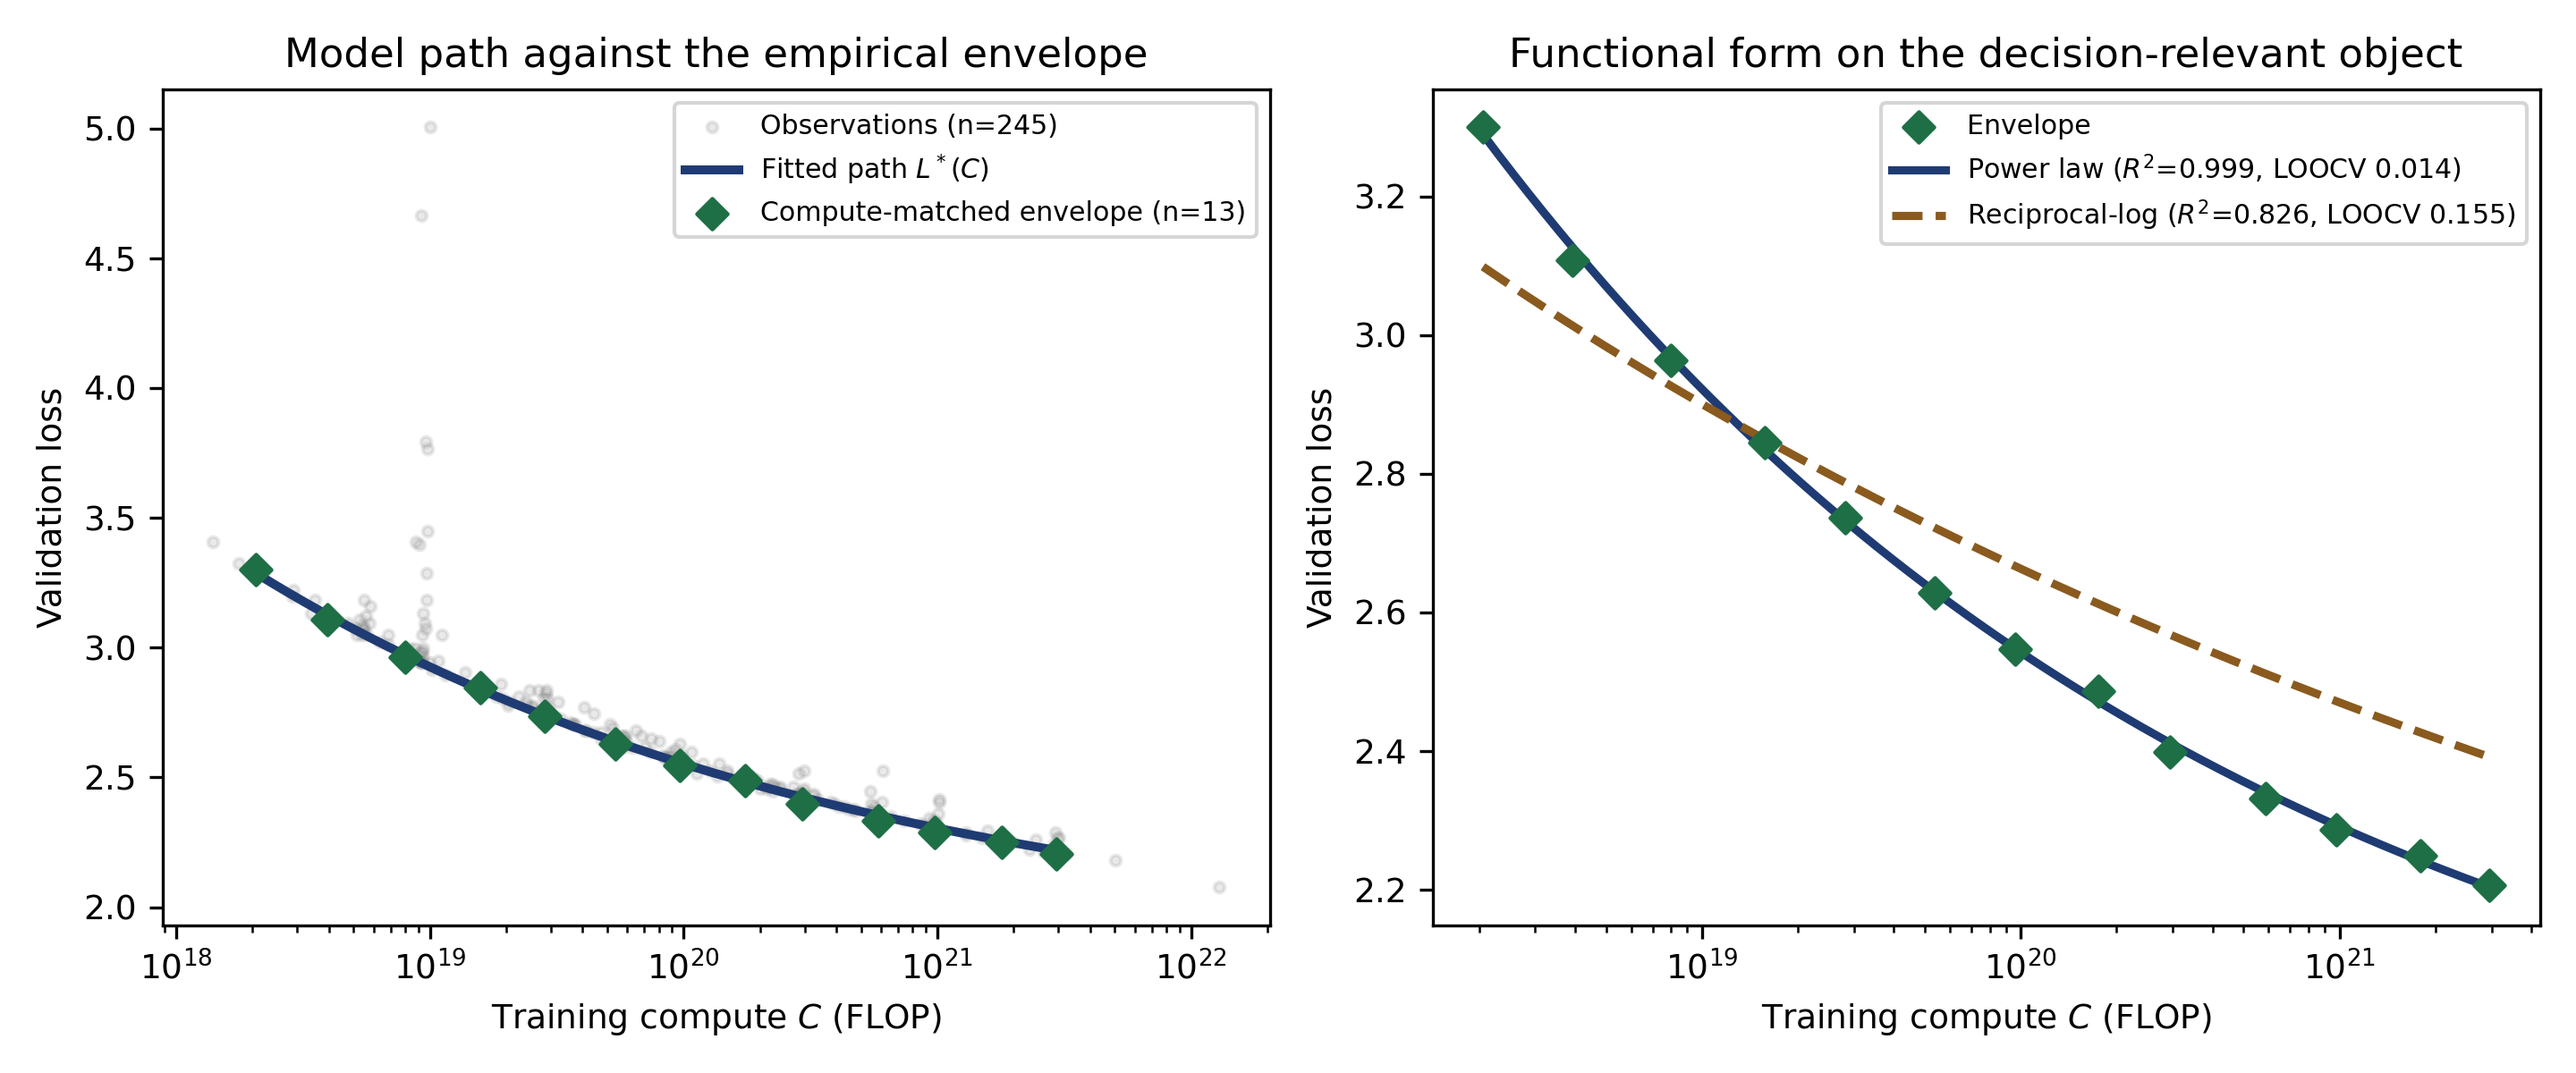
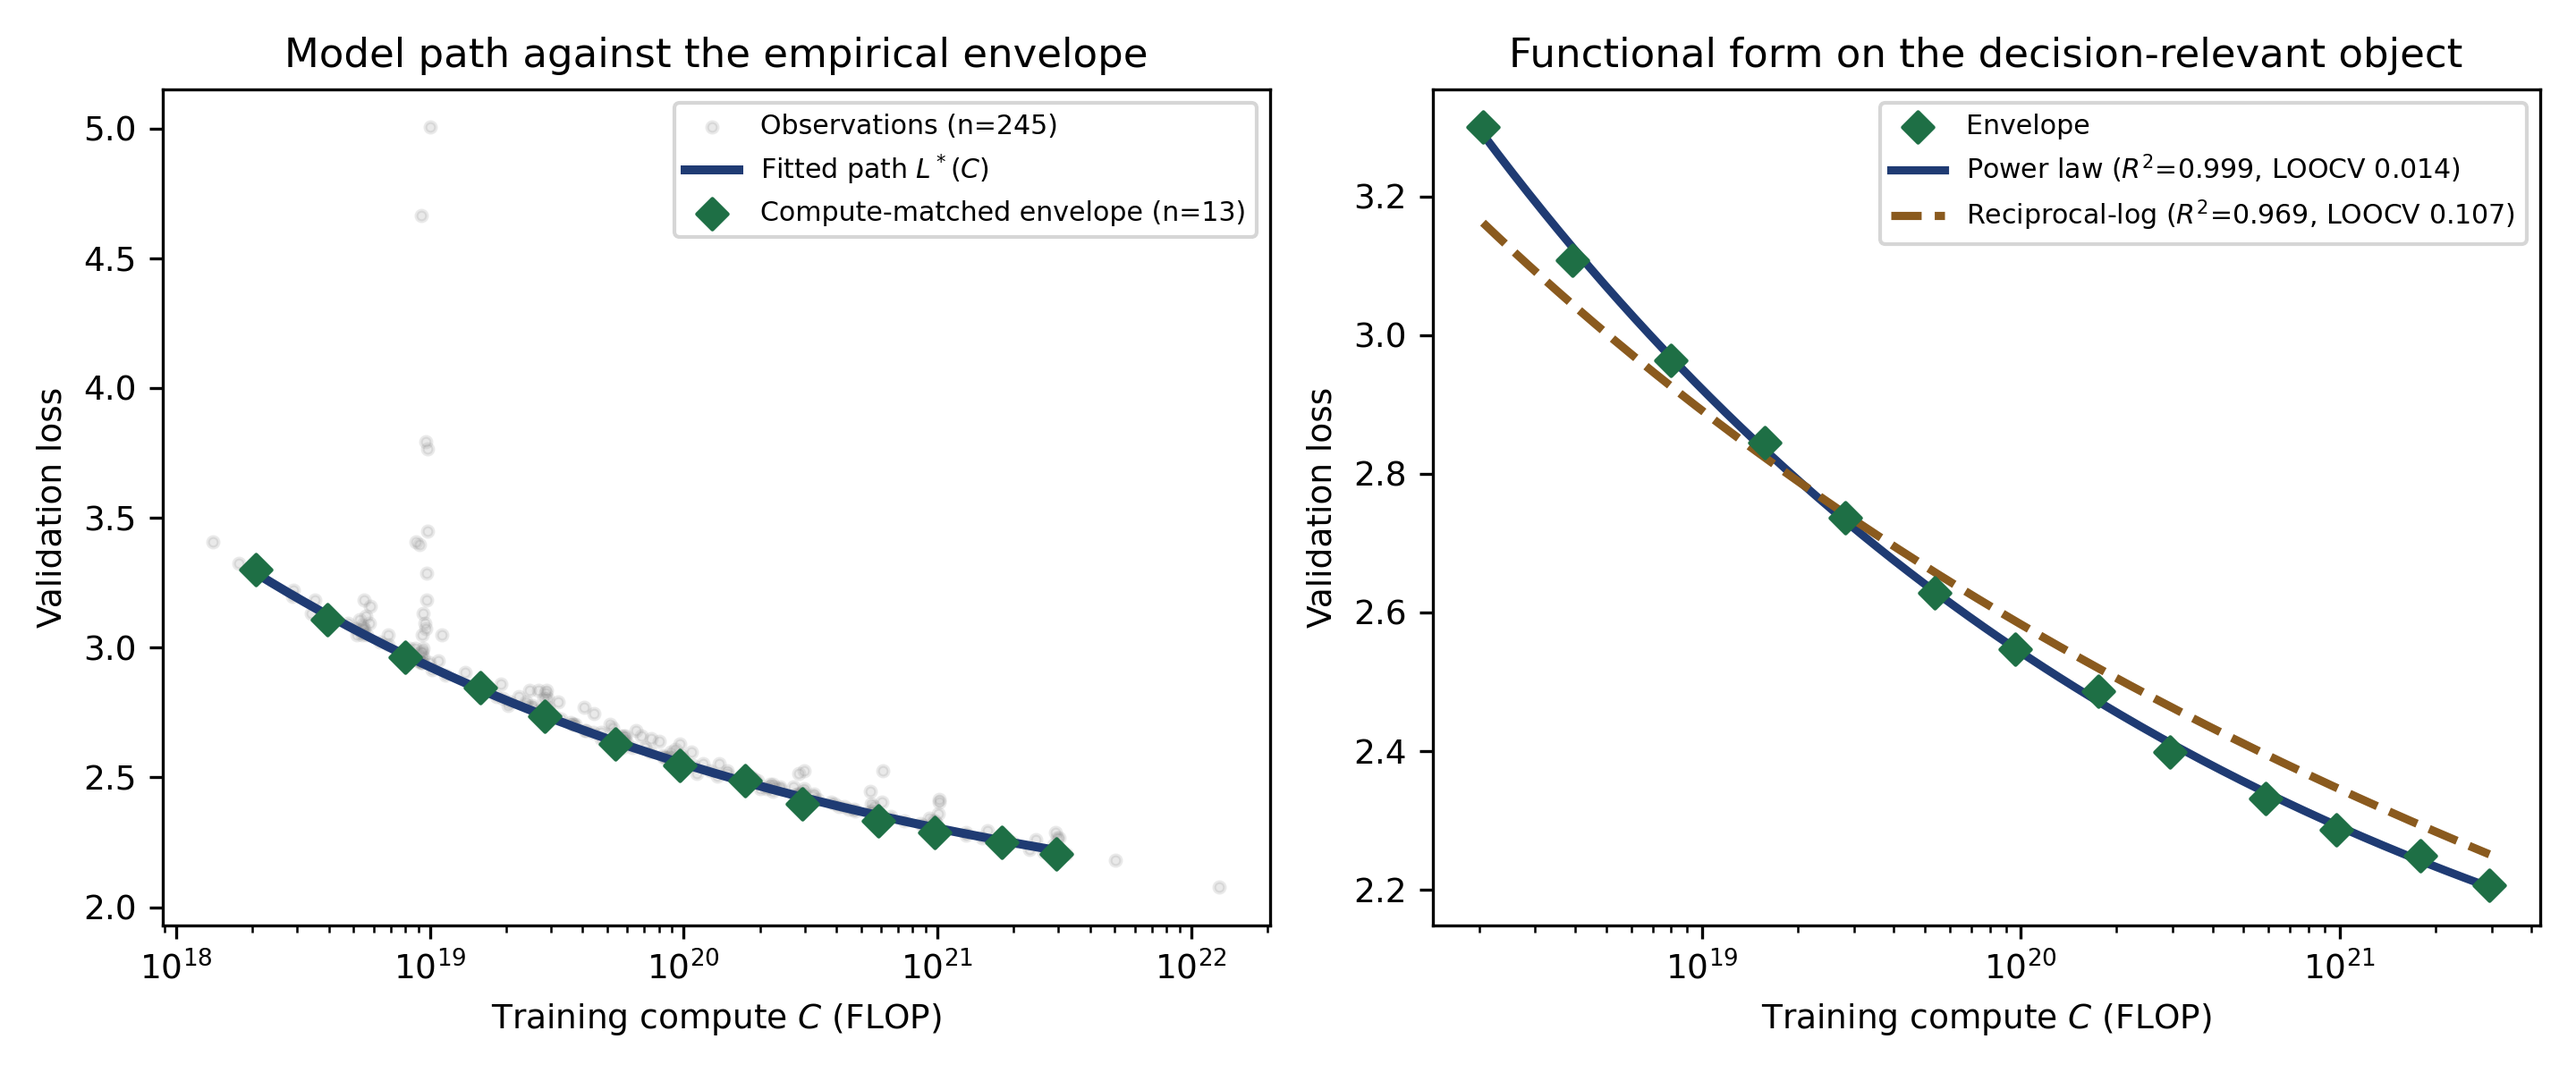
v4.5.1: regenerate figures from the corrected fit; add figure freshness check to the verifier

diff --git a/verify_manuscript.py b/verify_manuscript.py
@@ -229,6 +229,24 @@ def main(doc_path, results_path):
                 bool(re.search(r"overlap|also among the five highest-loss", text)),
                 f"rows {sc['n_row1']} and {sc['n_row2']}, overlap {sc['overlap_indices']}")
 
+
+    # ---------- figures must carry the same numbers as the text ----------
+    # Text can be corrected while an image keeps a superseded value; that is how a
+    # stale LOOCV survived two revisions. The embedded PNGs are checked for the
+    # metrics they print by extracting them from the docx and reading the legend
+    # region is out of scope here, so instead we assert that the figure files on
+    # disk are newer than the results file they must reflect.
+    import os
+    figdir = os.path.join(os.path.dirname(results_path) or ".", "..", "figures")
+    figdir = os.path.normpath(figdir)
+    if os.path.isdir(figdir):
+        rts = os.path.getmtime(results_path)
+        stale = [f for f in os.listdir(figdir) if f.endswith(".png")
+                 and os.path.getmtime(os.path.join(figdir, f)) < rts - 60]
+        rep.add("FIGURE", "figures newer than results", not stale,
+                "all regenerated after the last results run" if not stale
+                else f"older than results.json: {stale}")
+
     n_bad = rep.show()
     if n_bad:
         print("\nThe manuscript does not agree with the pipeline. Fix the FAIL rows above.")

diff --git a/CHANGELOG.md b/CHANGELOG.md
@@ -1,5 +1,18 @@
 # Changelog
 
+## v4.5.1 — figures regenerated from the corrected fit; figure check in the verifier
+
+- Figure 5 still printed the pre-multistart logarithmic fit (R2 0.826, LOOCV 0.155)
+  while the text carried the corrected values (0.969, 0.107). All figures are
+  regenerated from the current results file, and the stale ones are replaced.
+- `verify_manuscript.py` gains a FIGURE check: every PNG in `figures/` must be
+  newer than `results/results.json`. Numeric checks read the text and cannot see
+  what an image prints, which is how a superseded value survived two revisions.
+- Note for anyone updating a clone: copying a packaged `figures/` directory over a
+  local one will overwrite figures that a local pipeline run had just produced
+  correctly. Re-run the pipeline after any such copy, or check the FIGURE row.
+
+
 ## v4.5.0 — deterministic multistart for the logarithmic fit
 
 **The reported fit of the alternative specification was optimizer-dependent, and
